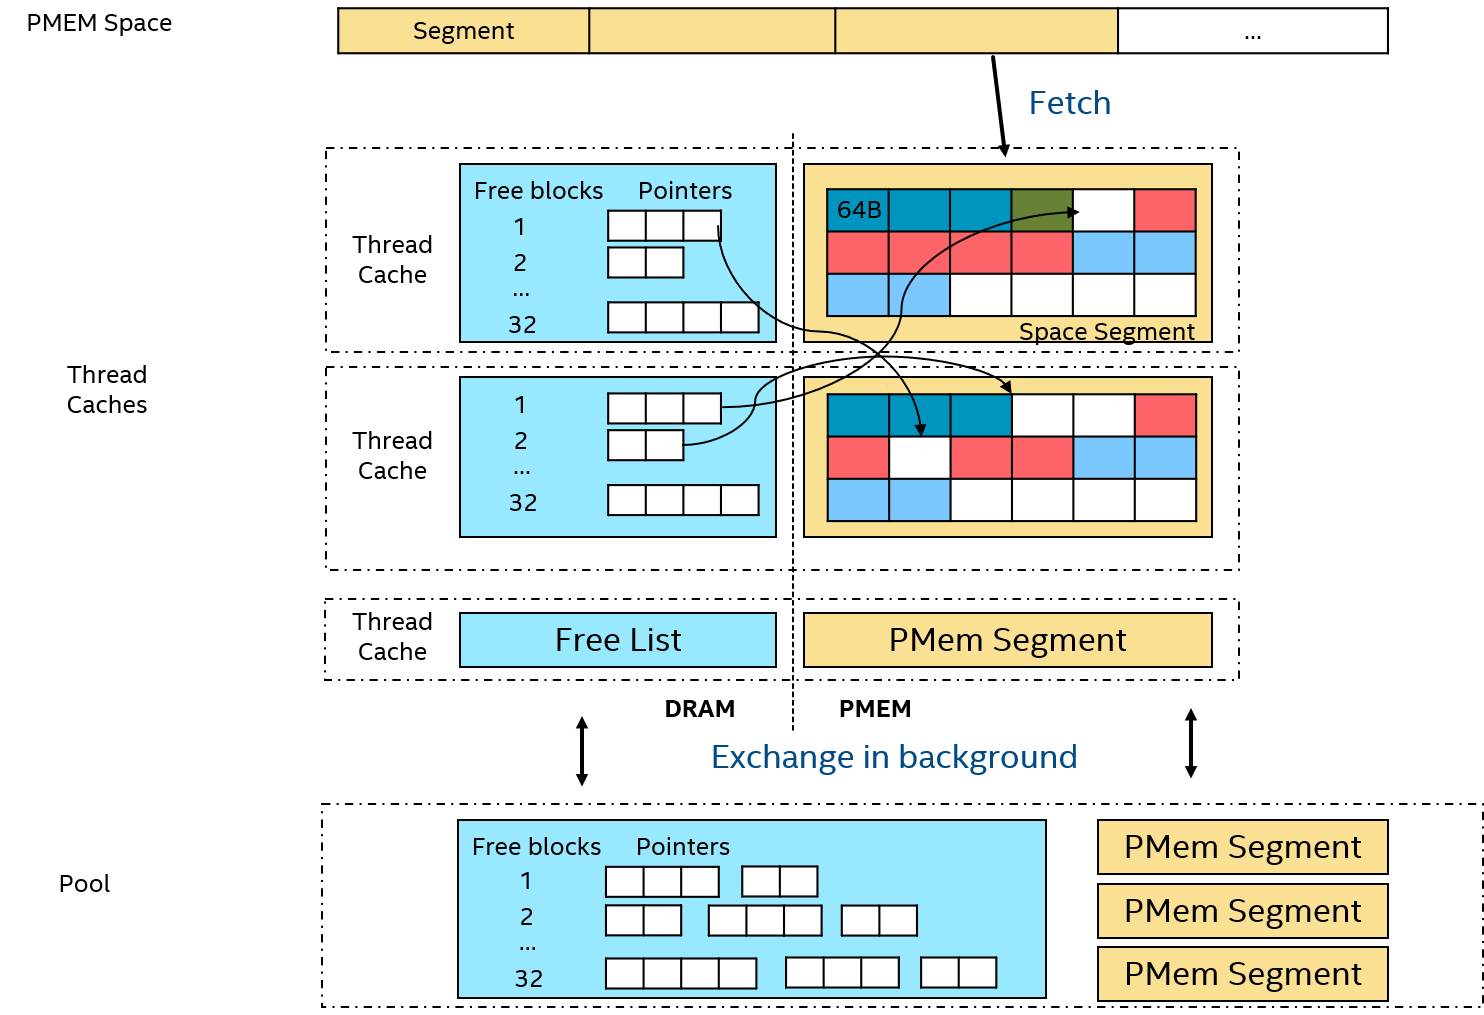
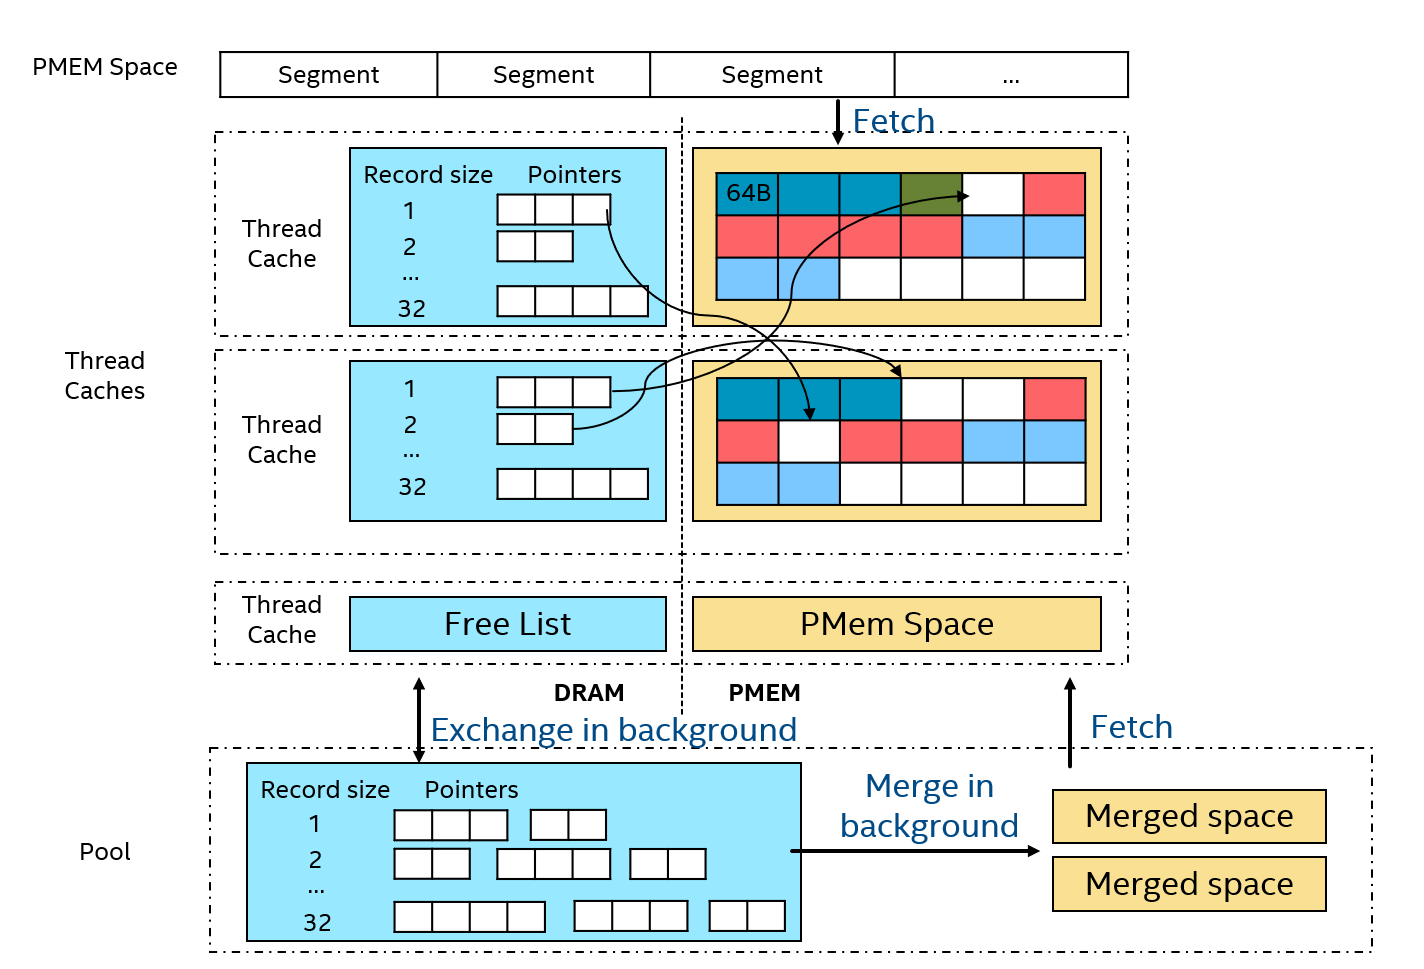
update pmem allocator doc (#126)

diff --git a/doc/pmem_allocator.md b/doc/pmem_allocator.md
@@ -8,15 +8,15 @@
 
 - PMEM Space: 从PMEM map出的一块空间，分为若干segment，每个segment又分成若干blocks，block是allocator的最小分配单元
 - Thread caches：为前台线程cache一些可用空间，避免线程竞争。包括一段segment和一个free list。Free list管理被释放的空闲空间，是一个链表的数组，每个链表结点是一个指向空闲空间的指针，链表的数组下标表示结点指针指向的空闲空间的大小，即包含多少个block。
-- Pool：为了均衡各thread cache的资源，由一个后台线程周期地将thread cache中的free list以及segment移动到后台的pool中，pool中的资源由所有前台线程共享。
+- Pool：为了均衡各thread cache的资源，由一个后台线程周期地将thread cache中的free list以及segment移动到后台的pool中，pool中的资源由所有前台线程共享。后台线程还会周期性地将pool中的相邻碎片空间合并为大块空间“Merged Space”。
 
 ## 空间分配流程：
-- 线程查看cache的segment是否有足够空间，若无，则从pool中拿取另一个segment。然后从segment末尾分配空间。
-- 若pool中仍无可用segment，则尝试从free list中分配空间。首先查看cache的free list，若无可用空间，则从pool中拿取另一段free list。
+- 线程查看cached PMem space是否有足够空间，若无，则尝试从pool中fetch一块merged space作为新的cache，然后从cached PMem space尾部分配空间
+- 若pool中无可用Merged space，则尝试从free list中分配空间。首先查看cache中的free list，若无可用空间，则从pool中拿取另一段free list。
 - 若从free list分配空间仍然失败，则从PMEM Space中fetch一段新的segment
 
 ## 空间释放：
 - 将free的空间指针加入cache中对应大小的free list链表
 	
-## 碎片合并：
+## 碎片合并策略：
 - 尚未画出
